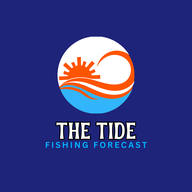
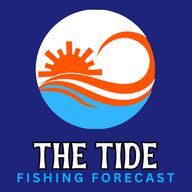
PWAアイコンをロゴ部分に最適化（余白除去・高品質リサイズ）

diff --git a/scripts/make-icons.js b/scripts/make-icons.js
@@ -1,0 +1,78 @@
+// アイコン生成スクリプト
+// 元画像のロゴ部分（余白除去）を自動検出して高品質リサイズ
+const sharp = require('sharp');
+const path = require('path');
+const fs = require('fs');
+
+const src = path.join(__dirname, '../icon-512.png');
+
+async function main() {
+  const srcBuf = fs.readFileSync(src);
+  const { data, info } = await sharp(srcBuf).raw().toBuffer({ resolveWithObject: true });
+  const { width, height, channels } = info;
+
+  // 紺背景色 #1a237e = rgb(26,35,126)
+  // それ以外のピクセルをロゴとみなしてバウンディングボックスを検出
+  const bgR = 26, bgG = 35, bgB = 126;
+  const threshold = 30; // 色差しきい値
+
+  let minX = width, maxX = 0, minY = height, maxY = 0;
+
+  for (let y = 0; y < height; y++) {
+    for (let x = 0; x < width; x++) {
+      const i = (y * width + x) * channels;
+      const dr = Math.abs(data[i]   - bgR);
+      const dg = Math.abs(data[i+1] - bgG);
+      const db = Math.abs(data[i+2] - bgB);
+      if (dr + dg + db > threshold * 3) {
+        if (x < minX) minX = x;
+        if (x > maxX) maxX = x;
+        if (y < minY) minY = y;
+        if (y > maxY) maxY = y;
+      }
+    }
+  }
+
+  // 少しパディングを加える
+  const pad = 16;
+  const left   = Math.max(0, minX - pad);
+  const top    = Math.max(0, minY - pad);
+  const cropW  = Math.min(width  - left, maxX - left + pad + 1);
+  const cropH  = Math.min(height - top,  maxY - top  + pad + 1);
+
+  console.log(`ロゴ検出: x=${minX}〜${maxX}, y=${minY}〜${maxY}`);
+  console.log(`クロップ: left=${left}, top=${top}, w=${cropW}, h=${cropH}`);
+
+  const cropped = await sharp(srcBuf)
+    .extract({ left, top, width: cropW, height: cropH })
+    .toBuffer();
+
+  // 正方形に整形（長い方に合わせて短い方を紺でパディング）
+  const sq = Math.max(cropW, cropH);
+  const padX = Math.floor((sq - cropW) / 2);
+  const padY = Math.floor((sq - cropH) / 2);
+
+  const square = await sharp(cropped)
+    .extend({
+      top: padY, bottom: sq - cropH - padY,
+      left: padX, right: sq - cropW - padX,
+      background: { r: 26, g: 35, b: 126, alpha: 1 }
+    })
+    .toBuffer();
+
+  // 512x512 版（Lanczos高品質）
+  await sharp(square)
+    .resize(512, 512, { kernel: 'lanczos3' })
+    .png({ quality: 100, compressionLevel: 9 })
+    .toFile(path.join(__dirname, '../icons/icon-512.png'));
+  console.log('✅ icons/icon-512.png 生成完了');
+
+  // 192x192 版
+  await sharp(square)
+    .resize(192, 192, { kernel: 'lanczos3' })
+    .png({ quality: 100, compressionLevel: 9 })
+    .toFile(path.join(__dirname, '../icons/icon-192.png'));
+  console.log('✅ icons/icon-192.png 生成完了');
+}
+
+main().catch(e => { console.error(e); process.exit(1); });
